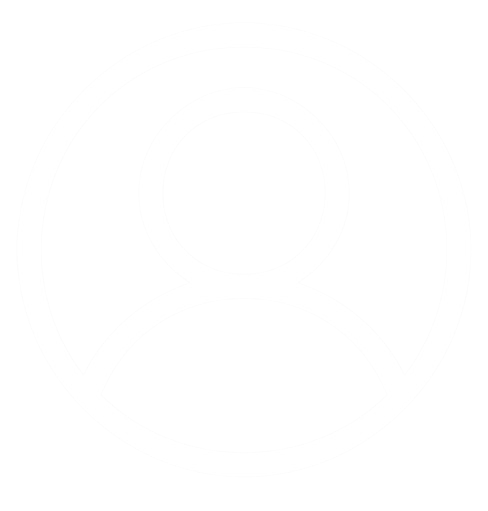
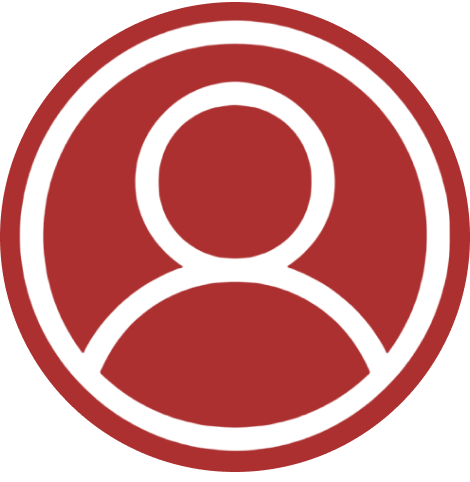
fix/header's scale

diff --git a/frontend/styles/headerstyle.css b/frontend/styles/headerstyle.css
@@ -1,115 +1,41 @@
-/*.Header-style{
-    position: absolute;
-    width: 100vw; 
-    height: 100px;
-    top:0px;
-    background-color: #FFF2D8;
-    border: none;
-    background-size: cover;
+@import url('https://fonts.googleapis.com/css2?family=Jost:wght@400&display=swap');
+body {
+    font-family: Arial, sans-serif;
+    margin: 0;
+    padding: 0;
 }
-.HomeButton-style{
-    color: black; 
-    top: 30px;
-    left: 181px;
-    position: absolute;
-    font-size: 28px; 
-    font-family: Jost; 
-    font-weight: 600; 
-    word-wrap: break-word;
-    border:none;
-    background: none;
-}
-.CalendarButton-style{
-    color: black; 
-    top: 30px;
-    left: 518px;
-    position: absolute;
-    font-size: 28px; 
-    font-family: Jost; 
-    font-weight: 600; 
-    word-wrap: break-word;
-    border:none;
-    background: none;
-}
-.ClockButton-style{
-    color: black; 
-    top: 30px;
-    left: 744px;
-    position: absolute;
-    font-size: 28px; 
-    font-family: Jost; 
-    font-weight: 600; 
-    word-wrap: break-word;
-    border:none;
-    background: none;
-}
-.HoroscopeButton-style{
-    color: black; 
-    top: 30px;
-    left: 915px;
-    position: absolute;
-    font-size: 28px; 
-    font-family: Jost; 
-    font-weight: 600; 
-    word-wrap: break-word;
-    border:none;
-    background: none;
-}
-.HomeButton-style:hover,
-.CalendarButton-style:hover,
-.ClockButton-style:hover,
-.HoroscopeButton-style:hover{
-    width: fit-content;
-    height: 40px;
-    color: #AC3030;
-}*/
-.Header-style{
+.header {
     position: fixed;
-    width: 100%;
-    height: 100px;
     top: 0;
     left: 0;
+    width: 100%;
     background-color: #FFF2D8;
-    border: none;
-    background-size: cover;
+    padding: 15px;
+    display: grid;
+    grid-template-columns: repeat(5, 1fr); /* Equal columns */
+    justify-items: center; /* Center align the items */
+    color: white;
     z-index: 1000;
 }
-
-.HomeButton-style, .CalendarButton-style, .ClockButton-style, .HoroscopeButton-style {
-    color: black; 
-    top: 30px;
-    position: absolute;
-    font-size: 28px; 
-    font-family: Jost; 
-    font-weight: 600; 
-    word-wrap: break-word;
+.header-button {
+    background-color: #FFF2D8;
+    color: black;
     border: none;
-    background: none;
-    z-index: 1001;
+    padding: 5px 5px;
+    cursor: pointer;
+    font-size: 24px;
+    border-radius: 12px;
+    font-family: 'Jost', sans-serif;
+    font-weight: 600;
 }
-
-.HomeButton-style {
-    left: 12.57%;
-}
-
-.CalendarButton-style {
-    left: 35.97%;
-}
-
-.ClockButton-style {
-    left: 51.67%;
-}
-
-.HoroscopeButton-style {
-    left: 63.46%;
-}
-
-.HomeButton-style:hover,
-.CalendarButton-style:hover,
-.ClockButton-style:hover,
-.HoroscopeButton-style:hover {
-    width: fit-content;
-    height: 40px;
+.header-button:hover {
     color: #AC3030;
+    font-size: 28px;
+}
+#header-profile img {
+    width: 45px; /* Adjusted size */
+    height: auto;
+    max-width: 100%;
+    display: block;
 }
 

diff --git a/frontend/header.html b/frontend/header.html
@@ -1,36 +1,19 @@
-<!DOCTYPE html>
-<html lang="en">
-<head>
-    <meta charset="UTF-8">
-    <meta name="viewport" content="width=device-width, initial-scale=1.0">
-    <title>Desktop Clock</title>
-    <link href="https://fonts.googleapis.com/css2?family=Jost&display=swap" rel="stylesheet">
-    <link rel="stylesheet" href="styles/headerstyle.css">
-</head>
-<body>
-<div class="Header-style">
-    <div>
-        <button class="HomeButton-style" id="Home-Button">
-            SHLEEP
-        </button>
-    </div>
-    <div>
-        <button class="CalendarButton-style" id="Calendar-Button">
-            CALENDAR
-        </button>
-    </div>
-    <div>
-        <button class="ClockButton-style" id="Clock-Button">
-            CLOCK
-        </button>
-    </div>
-    <div>
-        <button class="HoroscopeButton-style" id="Horoscope-Button">
-            HOROSCOPE
-        </button>
-    </div>
+<!-- add this to head 
 
-</body>
-<!-- If needed, add your JavaScript here -->
-<script src="script/headerscript.js"></script>
-</html>
+<link rel="stylesheet" href="styles/headerstyle.css">
+
+-->
+
+
+
+<!-- add this to body
+
+<div class="header">        
+    <button class="header-button" id="header-shleep">SHLEEP</button>
+    <button class="header-button" id="header-calendar">CALENDAR</button>
+    <button class="header-button" id="header-clock">CLOCK</button>
+    <button class="header-button" id="header-horoscope">HOROSCOPE</button>
+    <button class="header-button" id="header-profile"><img src="images/user.png" alt="Button Image"></button>
+</div>
+
+-->

diff --git a/frontend/horoscope.html b/frontend/horoscope.html
@@ -6,9 +6,16 @@
         <title>Horoscope</title>
         <link href="https://fonts.googleapis.com/css2?family=Jost&display=swap" rel="stylesheet">
         <link rel="stylesheet" href="styles/horoscopestyle.css">
+        <link rel="stylesheet" href="styles/headerstyle.css">
     </head>
-    <object data="header.html"></object>
     <body>
+        <div class="header">        
+            <button class="header-button" id="header-shleep">SHLEEP</button>
+            <button class="header-button" id="header-calendar">CALENDAR</button>
+            <button class="header-button" id="header-clock">CLOCK</button>
+            <button class="header-button" id="header-horoscope">HOROSCOPE</button>
+            <button class="header-button" id="header-profile"><img src="images/user.png" alt="Button Image"></button>
+        </div>
         <div class="roulettebg">
             <img src="images/roulette.png" class="roulettepic">
         </div>

diff --git a/frontend/myaccountpage.html b/frontend/myaccountpage.html
@@ -7,11 +7,18 @@
     <link href="https://fonts.googleapis.com/css2?family=Encode+Sans+SC&display=swap" rel="stylesheet">
     <link href="https://fonts.googleapis.com/css2?family=Jost&display=swap" rel="stylesheet">
     <link rel="stylesheet" href="styles/myaccountstyle.css">
+    <link rel="stylesheet" href="styles/headerstyle.css">
     
 
 </head>
-<object data="header.html"></object>
 <body>
+    <div class="header">        
+        <button class="header-button" id="header-shleep">SHLEEP</button>
+        <button class="header-button" id="header-calendar">CALENDAR</button>
+        <button class="header-button" id="header-clock">CLOCK</button>
+        <button class="header-button" id="header-horoscope">HOROSCOPE</button>
+        <button class="header-button" id="header-profile"><img src="images/user.png" alt="Button Image"></button>
+    </div>
     <div class="Myaccount-style">
         MyAccount
     </div>

diff --git a/frontend/homepage.html b/frontend/homepage.html
@@ -6,8 +6,16 @@
     <title>Desktop Clock</title>
     <link href="https://fonts.googleapis.com/css2?family=Jost&display=swap" rel="stylesheet">
     <link rel="stylesheet" href="styles/homepagestyle.css">
+    <link rel="stylesheet" href="styles/headerstyle.css">
 </head>
 <body>
+    <div class="header">        
+        <button class="header-button" id="header-shleep">SHLEEP</button>
+        <button class="header-button" id="header-calendar">CALENDAR</button>
+        <button class="header-button" id="header-clock">CLOCK</button>
+        <button class="header-button" id="header-horoscope">HOROSCOPE</button>
+        <button class="header-button" id="header-profile"><img src="images/user.png" alt="Button Image"></button>
+    </div>
     <div class="welcome-style">
         welcome to
     </div>
